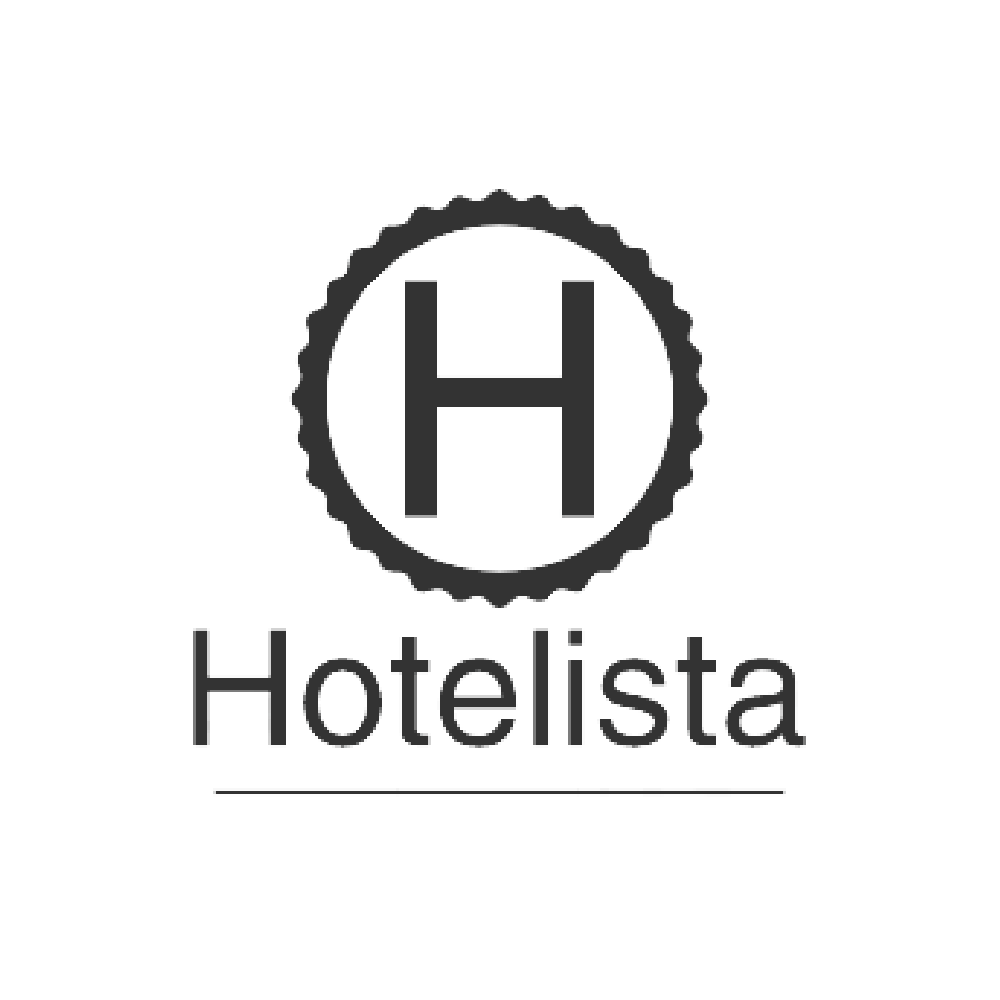
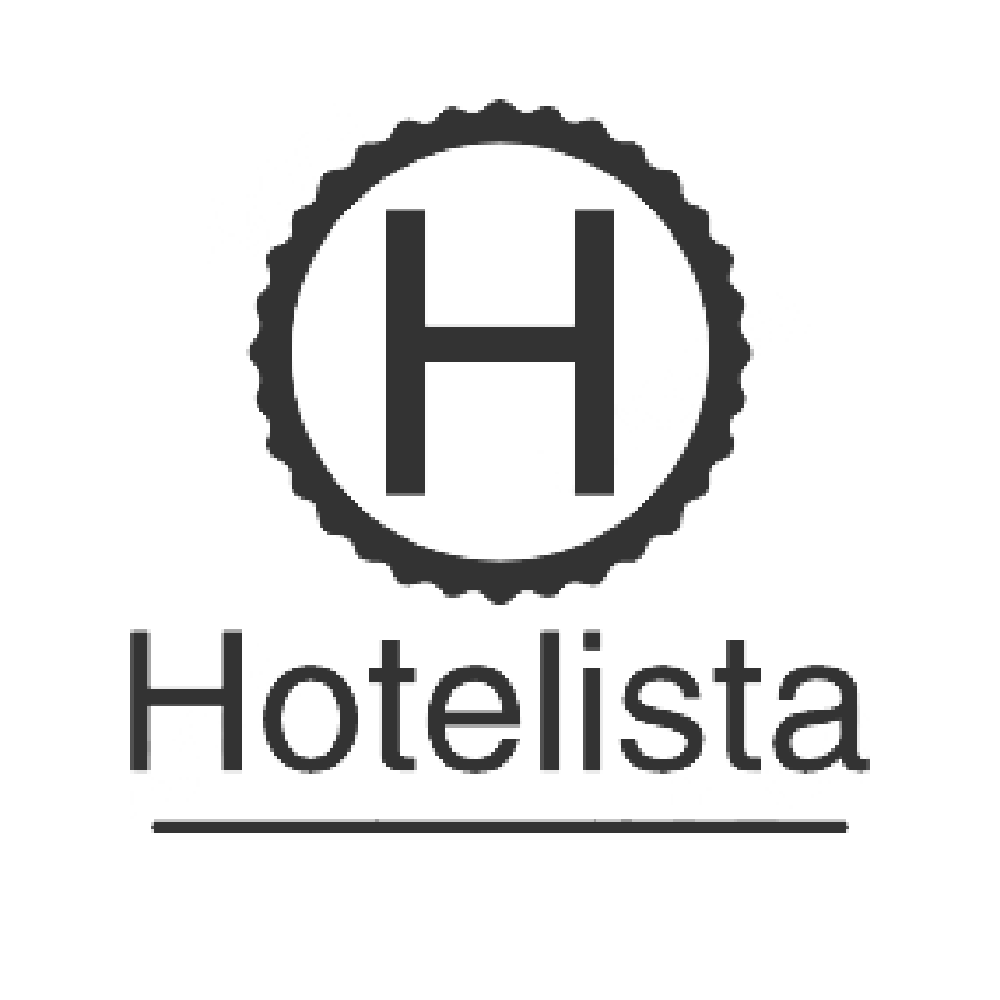
Cabeçalho e rodapé

Changed region(s): [[0.124, 0.093, 0.868, 0.775], [0.155, 0.806, 0.868, 0.837]]

diff --git a/root/public/login.html b/root/public/login.html
@@ -12,36 +12,45 @@
 
 <body>
     <header>
-        <div class="title">
-            <img src="../images/Hotelista_sem_fundo.png" alt="nome da imagem" width="120" />
-            <div class="slogan">Quando estilo combina com conforto</div>
-        </div>
-
-        <div class="options">
-            <p>Olá usuário XXX</p>
-            <p><a href="">Sair</a></p>
-            <p><a href="">Cadastre-se</a></p>
-        </div>
-
-
-
         <nav>
-            <ul>
+            <div class="hotelista">
+                <div class="logo">
+                    <a href="../index.html" class="logo">
+                        <img src="../images/Hotelista_sem_fundo.png" alt="Hotelista" width="100" />
+                    </a>
+                </div>
+                <div class="slogan">
+                    Quando estilo combina com conforto
+                </div>
+            </div>
+            <ul class="navegacao">
                 <li>
                     <a href="../index.html">Home</a>
                 </li>
                 <li>
-                    <a href="local da pagina">Reservas</a>
+                    <a href="reservas.html">Reservas</a>
                 </li>
                 <li>
-                    <a href="local da pagina">Acomodações</a>
+                    <a href="quartos.html">Acomodações</a>
                 </li>
                 <li>
-                    <a href="local da pagina">Contato</a>
+                    <a href="contato.html">Contato</a>
+                </li>
+            </ul>
+            <ul class="options">
+                <li>
+                    <span>Olá, usuário XXX</span>
+                </li>
+                <li>
+                    <a href="">Sair</a>
+                </li>
+                <li class="cadastrese">
+                    <a href="">Cadastre-se</a>
                 </li>
             </ul>
         </nav>
     </header>
+
     <main>
         <section>
             <article>
@@ -68,18 +77,32 @@
                                 </li>
                             </form>
                         </ul>
-
                     </fieldset>
                 </form>
-
-
             </article>
         </section>
     </main>
+
     <footer>
-
+        <p>E-mail para contato: atendimento@hotelista.com.br</p>
+        <p>Nosso Endereço: Rua Texperts, 01 | São Paulo | SP | 01001-001</p>
+        <p>Telefone para contato: +55 11 3232-3232</p>
+        <nav>
+            <ul>
+                <li>
+                    <a href="reservas.html">Reservas</a> <br />
+                    <a href="quartos.html">Acomodações</a> <br />
+                    <a href="contato.html">Contato</a> <br />
+                </li>
+            </ul>
+        </nav>
+        <div class="copyright">
+            <p class="copyright">
+                <img src="../images/Coderize_com_fundo.png" alt="Coderize" width="100">
+                Coderize &copy;2022 - Todos os direitos reservados
+            </p>
+        </div>
     </footer>
-
 </body>
 
 </html>

diff --git a/root/src/css/style.css b/root/src/css/style.css
@@ -2,50 +2,147 @@
 
 body {
     font-family: 'Poppins';
-    background-color: #cbdad5;
+    background-color: #ffffff;
     color: #333333;
+    margin: 0;
 }
 
-header div.title {
+/* CABEÇALHO */
+header div.hotelista {
     float: left;
-    font-size: 25px;
+    min-width: 100%;
 }
 
-header div.slogan {
-    text-align: center;
+header div.hotelista div {
+    padding: 16px 16px 0 16px;
 }
 
-header div.title img {
-    max-width: 25%;
+header div.hotelista div.logo {
+    object-fit: contain;
+    height: 100%;
+    max-width: 5%;
+    display: inline-block;
 }
 
-header div.options {
-    float: right;
-    text-align: right;
+header div.hotelista div.logo img {
+    width: 100%;
 }
 
-header ul {
+header div.hotelista div.slogan {
+    font-size: xx-large;
+    display: inline-block;
+}
+
+header ul.navegacao {
     list-style-type: none;
     margin: 0;
     padding: 0;
     overflow: hidden;
-    background-color: #566981;
+    background-color: #34344e;
     min-width: 100%;
+    height: auto;
+    position: -webkit-sticky;
+    position: sticky;
+    top: 0;
+    z-index: 999;
 }
 
-header li {
+header ul.navegacao li {
     float: left;
-    min-width: 25%;
 }
 
-header li a {
+header ul.navegacao li a {
     display: block;
-    color: white;
+    color: #cbdad5;
     text-align: center;
     padding: 16px;
     text-decoration: none;
 }
 
-header li a:hover {
+header ul.navegacao li a:hover {
+    background-color: #cbdad5;
+    color: #333333;
+}
+
+header ul.options {
+    list-style-type: none;
+    margin: 0;
+    padding: 0;
+    overflow: hidden;
+    background-color: #cbdad5;
+    color: #34344e;
+    min-width: 100%;
+    height: auto;
+}
+
+header ul.options li {
+    float: right;
+}
+
+header ul.options li.cadastrese {
+    float: left;
+}
+
+header ul.options li a {
+    display: block;
+    color: #34344e;
+    text-align: center;
+    padding: 16px;
+    text-decoration: none;
+}
+
+header ul.options li span {
+    display: block;
+    text-align: center;
+    padding: 16px;
+    text-decoration: none;
+}
+
+header ul.options li a:hover {
     background-color: #34344e;
+    color: #cbdad5;
+}
+
+/* RODAPÉ */
+footer {
+    text-align: center;
+    line-height: small;
+    font-size: smaller;
+    list-style-type: none;
+    text-decoration: none;
+    line-height: 10px;
+    padding-top: 16px;
+}
+
+footer ul {
+    list-style-type: none;
+}
+
+footer li a {
+    display: block;
+    padding: 8px 16px;
+    color: #333333;
+    text-decoration: none;
+}
+
+footer li a:hover {
+    color: #89a7b1;
+}
+
+footer div.copyright {
+    font-size: large;
+    background-color: #34344e;
+    color: #cbdad5;
+
+}
+
+footer div.copyright p {
+    margin: 0;
+}
+
+footer div.copyright p img {
+    border-radius: 50%;
+    max-height: 5em;
+    width: auto;
+    vertical-align: middle;
 }
